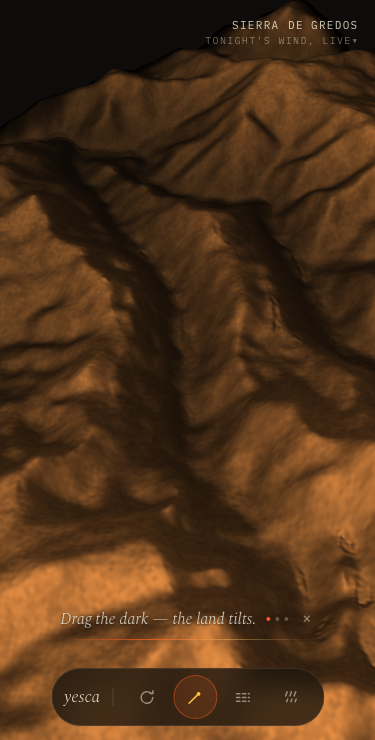
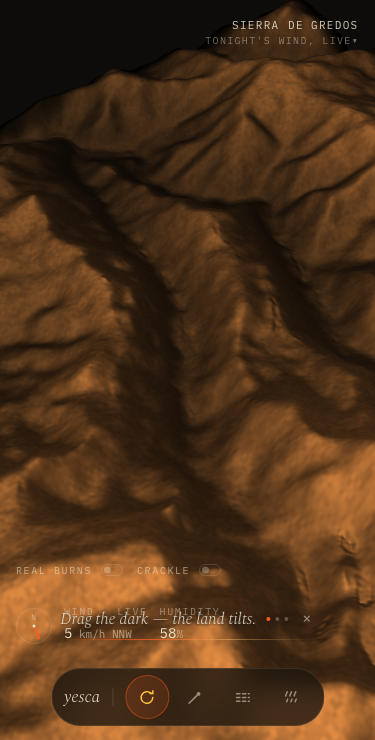
r6 fixes: continuous reveal front, scoped toolflash, real dim
- reveal front uses continuous vnoise instead of quantized floor() hash —
  no more checkerboard mill, the front wanders like light arriving
- toolflash anchors to .tbtn (canvas also carries data-tool); Enter/Space
  auto-orbit path anchors to the orbit button too
- body.revealed .rail.dim raises specificity so animation:none actually
  wins over hud-in — clusters stay dark through the lesson, replay once
- dock lights orbit during step 1 so the icon agrees with the lesson
- haptics route through nudge() which respects prefers-reduced-motion
- toolflash joins the reduced-motion animation kill-list
- mobile lever hit targets 19px -> 44px
- burn halo gains a diffuse term so fire warms its slope

Generated with [Devin](https://devin.ai)

diff --git a/src/App.tsx b/src/App.tsx
@@ -107,6 +107,11 @@ export default function App() {
   const struckOnce = useRef(false);
   const brokeOnce = useRef(false);
   const reduced = useRef(prefersReducedMotion());
+  // haptics are motion too — the reduced-motion guard is the opt-out
+  const nudge = () => {
+    if (reduced.current) return;
+    haptics.current.trigger("nudge").catch(() => {});
+  };
   const rainDamp = useRef(0);
   const [rhDamp, setRhDamp] = useState(0);
 
@@ -419,7 +424,7 @@ export default function App() {
         fx.flareAt(wp);
         stage.nudgeFocus(wp);
         crackleRef.current.strike();
-        haptics.current.trigger("nudge").catch(() => {});
+        nudge();
         struckOnce.current = true;
         // honest feedback when the strike found nothing to hold
         setTimeout(() => {
@@ -474,11 +479,12 @@ export default function App() {
             }
             crackleRef.current.strike();
             struckOnce.current = true;
-            haptics.current.trigger("nudge").catch(() => {});
+            nudge();
           } else if (t === "break") r.sim.stamp(1, [c], 14);
           else r.sim.stamp(2, [c], 70);
           setTool("orbit");
-          flashTool();
+          const ob = document.querySelector('.tbtn[data-tool="orbit"]')?.getBoundingClientRect();
+          flashTool(ob ? ob.left + ob.width / 2 : innerWidth / 2);
           return;
         }
       }
@@ -487,7 +493,8 @@ export default function App() {
       const t = map[e.key];
       if (t) {
         setTool(t);
-        const b = document.querySelector(`[data-tool="${t}"]`)?.getBoundingClientRect();
+        nudge();
+        const b = document.querySelector(`.tbtn[data-tool="${t}"]`)?.getBoundingClientRect();
         flashTool(b ? b.left + b.width / 2 : innerWidth / 2);
       }
       if (e.key === "?") {
@@ -505,7 +512,7 @@ export default function App() {
     const next = !burnsOn;
     setBurnsOn(next);
     r.stage.hotspotShow = next;
-    haptics.current.trigger("nudge").catch(() => {});
+    nudge();
     if (next) {
       // the satellites answer out loud — the one fact no demo can fake
       const call = (n: number) => {
@@ -536,7 +543,7 @@ export default function App() {
   const toggleSound = () => {
     const next = !soundOn;
     setSoundOn(next);
-    haptics.current.trigger("nudge").catch(() => {});
+    nudge();
     const c = crackleRef.current;
     if (next) c.start();
     else c.stop();
@@ -661,7 +668,7 @@ export default function App() {
                 const r0 = e.currentTarget.getBoundingClientRect();
                 setShareAnchor({ x: r0.left, y: r0.top });
                 setShareOpen(true);
-                haptics.current.trigger("nudge").catch(() => {});
+                nudge();
               }}
             >
               press the hillside into a card ↗
@@ -677,14 +684,14 @@ export default function App() {
               <button
                 key={t}
                 data-tool={t}
-                className={`tbtn ${tool === t ? "on" : ""}`}
+                className={`tbtn ${(guideStep === "orbit" ? t === "orbit" : tool === t) ? "on" : ""}`}
                 onClick={(e) => {
                   setTool(t);
                   const b = e.currentTarget.getBoundingClientRect();
                   flashTool(b.left + b.width / 2);
-                  haptics.current.trigger("nudge").catch(() => {});
+                  nudge();
                 }}
-                aria-pressed={tool === t}
+                aria-pressed={guideStep === "orbit" ? t === "orbit" : tool === t}
                 title={`${TOOL_LABEL[t]} (${t === "orbit" ? "1" : t === "match" ? "2" : t === "break" ? "3" : "4"})`}
               >
                 {TOOL_ICON[t]}
@@ -734,7 +741,7 @@ export default function App() {
             }}
             onPick={(p) => {
               setPlacesOpen(false);
-              haptics.current.trigger("nudge").catch(() => {});
+              nudge();
               loadPlace(p, false);
             }}
           />

diff --git a/src/index.css b/src/index.css
@@ -193,8 +193,13 @@ body.revealed .tray { animation: hud-in-c 700ms var(--ease-out) 300ms backwards;
   z-index: 15;
   transition: opacity 300ms var(--ease-out);
 }
-/* the tour owns the lower-left corner while it teaches */
-.rail.dim, .instruments.dim { opacity: 0; pointer-events: none; }
+/* the tour owns the lower-left corner while it teaches.
+   animation:none is load-bearing — a running hud-in would override the dim
+   and flash the cluster in front of the lesson; removing .dim replays it */
+.rail.dim, .instruments.dim,
+body.revealed .rail.dim, body.revealed .instruments.dim {
+  opacity: 0; pointer-events: none; animation: none;
+}
 .lever {
   display: flex; align-items: center; gap: 9px;
   background: none; border: none; cursor: pointer;
@@ -532,6 +537,7 @@ body.revealed .tray { animation: hud-in-c 700ms var(--ease-out) 300ms backwards;
   .rail {
     left: 16px; right: auto; bottom: 148px; top: auto; gap: 14px;
   }
+  .lever { min-height: 44px; }
   .sharechip { left: 16px; bottom: 186px; }
   .tray { bottom: 14px; padding: 6px 10px 6px 12px; }
   .dock-brand span { display: none; }
@@ -547,7 +553,7 @@ body.revealed .tray { animation: hud-in-c 700ms var(--ease-out) 300ms backwards;
 
 @media (prefers-reduced-motion: reduce) {
   .guide, .placetray, .sheet, .sheet-back, .offline, .hoverchip, .loading .bar i,
-  .sharechip, .masthead, .instruments, .rail, .tray {
+  .sharechip, .masthead, .instruments, .rail, .tray, .toolflash {
     animation-duration: 1ms; animation-delay: 0ms;
   }
   .vane .needle { transition-duration: 200ms; }

diff --git a/src/engine/shaders.ts b/src/engine/shaders.ts
@@ -282,7 +282,8 @@ void main() {
   halo += texture(uState, fuv + vec2(uTexel.x * 7.0, -uTexel.y * 7.0)).g;
   halo += texture(uState, fuv - vec2(uTexel.x * 7.0, -uTexel.y * 7.0)).g;
   float burnHalo = halo * 0.125;
-  col += uEmber * burnHalo * 0.45;
+  // the fire throws warmth back onto the unburned slope
+  col += uEmber * burnHalo * (0.45 + 0.35 * dif);
 
   // wet sheen
   col = mix(col, col * vec3(0.82, 0.9, 1.06), clamp(fu.g - 0.45, 0.0, 1.0) * 0.7);
@@ -299,8 +300,9 @@ void main() {
 
   // reveal sweep: unbuilt region is dark, milled in patches
   float rr = distance(vUv, vec2(0.5)) * 1.15;
-  rr += (hash(floor(vUv * 26.0)) - 0.5) * 0.16;
-  float built = smoothstep(rr, rr + 0.16, uReveal * 1.3);
+  // one continuous milling front, wandering like a cut — no cell mosaic
+  rr += (vnoise(vUv * 6.0) - 0.5) * 0.22 + (vnoise(vUv * 17.0) - 0.5) * 0.05;
+  float built = smoothstep(rr, rr + 0.14, uReveal * 1.3);
   col *= built;
   // first light rides the milling front — the reveal is a lit pass over the relief
   float front = built * (1.0 - built) * 4.0;
